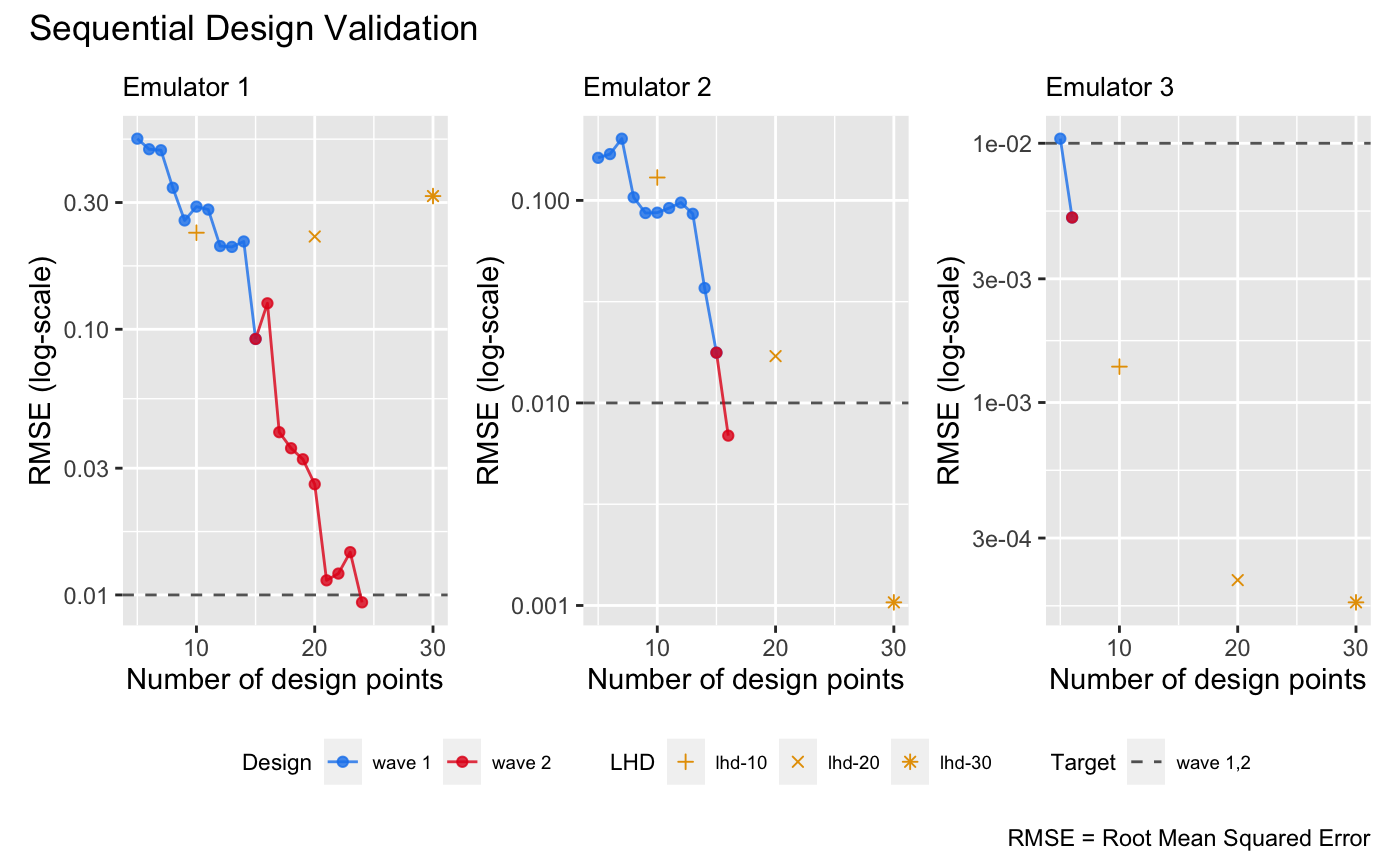
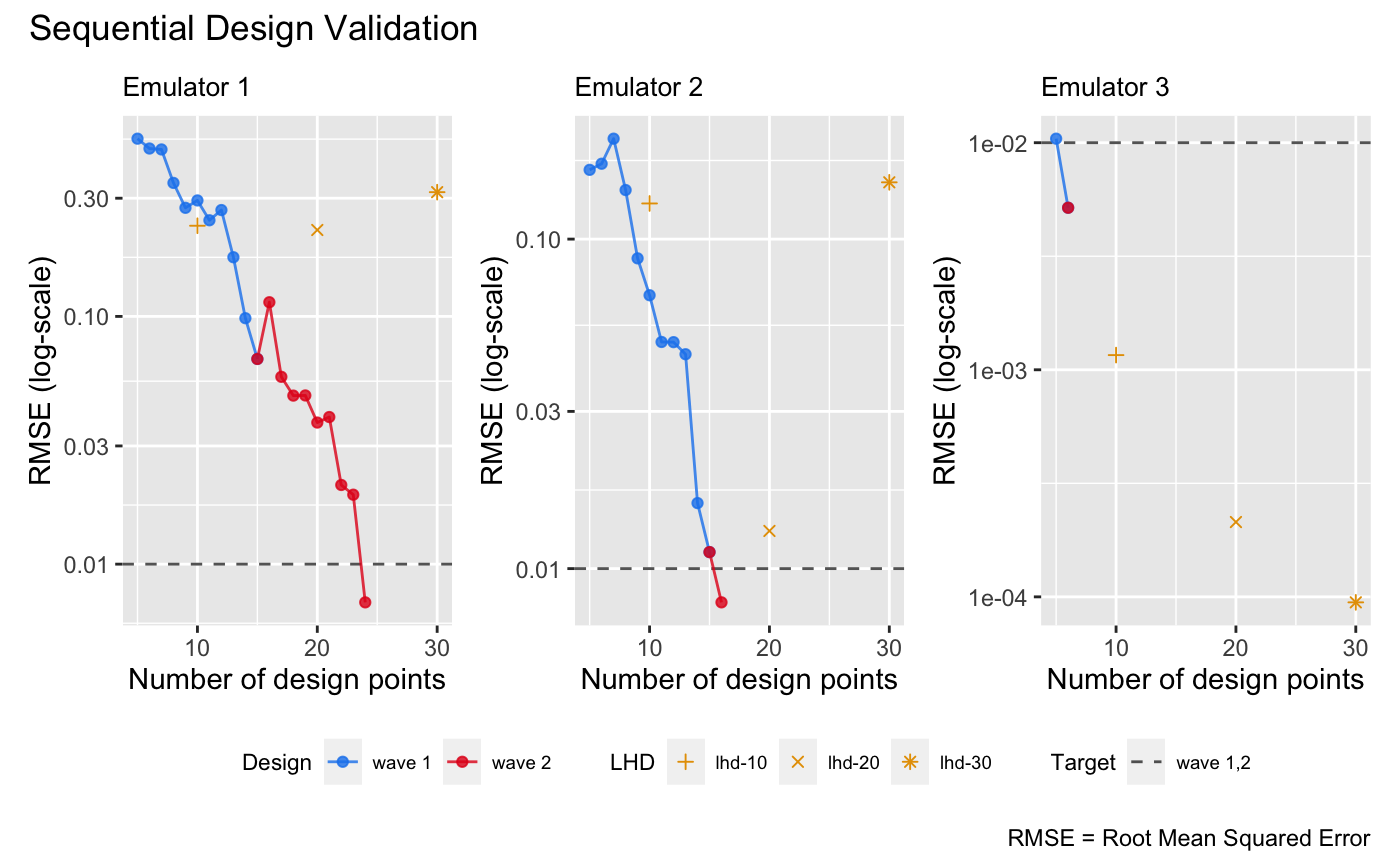
Document updates
Vignettes and NEWS updates due to a bug fix of mice() in its underlying Python implementation.

diff --git a/NEWS.md b/NEWS.md
@@ -1,5 +1,6 @@
 # dgpsi 2.2.0-9000 (development version)
 - A bug from the underlying Python implementations is fixed when `name = matern2.5` in `gp()` and `dgp()`.
+- A bug from the underlying Python implementations for the MICE sequential design criterion `mice()` is fixed.
 
 # dgpsi 2.2.0
 
